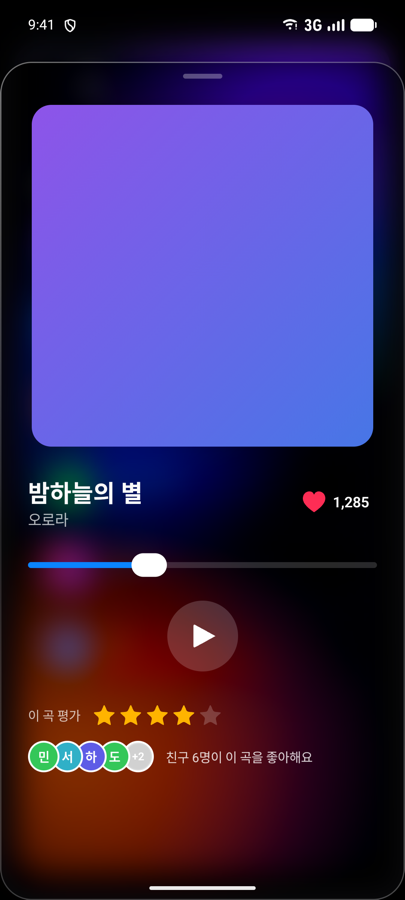
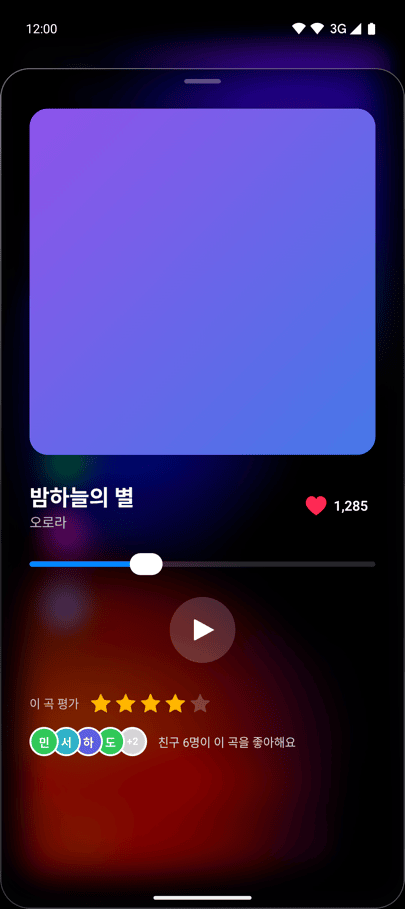
docs: 쇼케이스 스크린샷 다시 찍기, 폴더블·태블릿 화면 추가

diff --git a/README.md b/README.md
@@ -64,6 +64,21 @@
 
 위 이미지는 `sample-showcase`를 Android 에뮬레이터에서 실행해 찍은 실제 화면입니다. 샘플 앱 하나에 데모 아홉 가지와 XML 화면 예가 들어 있습니다.
 
+### 폴더블·태블릿
+
+폭이 넓은 화면에서는 첫 화면이 두 칸으로 나뉘고, 메일 예는 목록과 본문을 나란히 보여 줍니다. 전체 화면 플레이어는 앨범 아트와 재생 조작부를 옆으로 놓고, 보드의 격자 배치는 칸 폭을 160dp 이상으로 유지하면서 열을 최대 6개까지 늘립니다. 아래는 Pixel 9 Pro Fold 에뮬레이터를 펼친 상태로 찍은 화면입니다.
+
+<table>
+  <tr>
+    <td align="center" width="50%"><img src="docs/images/showcase-fold-home.png" width="360" alt="펼친 폴더블에서 쇼케이스 첫 화면"><br><b>쇼케이스</b><br>두 칸으로 나뉜 데모 목록</td>
+    <td align="center" width="50%"><img src="docs/images/showcase-fold-mail.png" width="360" alt="펼친 폴더블에서 메일 예"><br><b>메일</b><br>왼쪽에 목록, 오른쪽에 본문</td>
+  </tr>
+  <tr>
+    <td align="center" width="50%"><img src="docs/images/showcase-fold-player.png" width="360" alt="펼친 폴더블에서 음악 플레이어"><br><b>음악 플레이어</b><br>앨범 아트와 조작부를 나란히</td>
+    <td align="center" width="50%"><img src="docs/images/showcase-fold-board.png" width="360" alt="펼친 폴더블에서 4열 보드"><br><b>대시보드 보드</b><br>폭에 맞춰 4열로 늘어난 격자</td>
+  </tr>
+</table>
+
 ## 샘플 앱 내려받기
 
 소스를 받지 않고도 기능을 직접 써 볼 수 있도록 샘플 앱(APK)을 [Releases](https://github.com/Naury74/Kinetica-Kit-SDK/releases/latest)에 올려 둡니다.

diff --git a/CHANGELOG.md b/CHANGELOG.md
@@ -79,3 +79,4 @@
 - `GlassLargeTitleBar`: 접힌 바의 글래스 배경이 아래 가장자리에서 끊기지 않고 콘텐츠 쪽으로 옅어집니다. `bottom` 줄도 `contentMaxWidth` 안에 가운데 정렬해 넓은 화면에서 큰 제목, 본문과 폭이 맞습니다.
 - 보드: 넓은 화면에서 열 수가 늘어날 때 앞쪽 빈칸에 들어가는 위젯을 먼저 채우는 dense 방식으로 흘려 넣어, 큰 위젯 옆과 아래에 빈칸이 남지 않습니다. 이미 편집한 열 수의 배치는 바꾸지 않습니다.
 - 편집기: 상단 도구 모음을 아이콘과 이름이 있는 캡슐 묶음(추가, 실행 취소, 보기)으로 바꾸고, 폭이 모자라면 아이콘만 남기거나 가로로 스크롤합니다. `onExit`로 나가기 버튼을 오른쪽 끝에 고정할 수 있고, `StudioToolbarButton`과 `StudioToolbarGroup`을 추가했습니다. 레이어 패널의 표시와 잠금은 눈과 자물쇠 아이콘 토글로 바꿨습니다.
+- RTL: `SceneLayout`이 artboard 배경이 없거나 영역보다 작은 장면을 RTL 화면에서 오른쪽 밖으로 밀어 편집기 캔버스에 도형이 보이지 않던 문제를 고쳤습니다. `kinetica-ui`가 그리는 문구(기능 안내, 토스트, 스낵바, 툴팁, 빈 화면, 온보딩, 입력란 등)는 문단 방향을 내용으로 정해, RTL 화면에서 한국어 문장 끝의 마침표가 앞으로 가지 않습니다.
